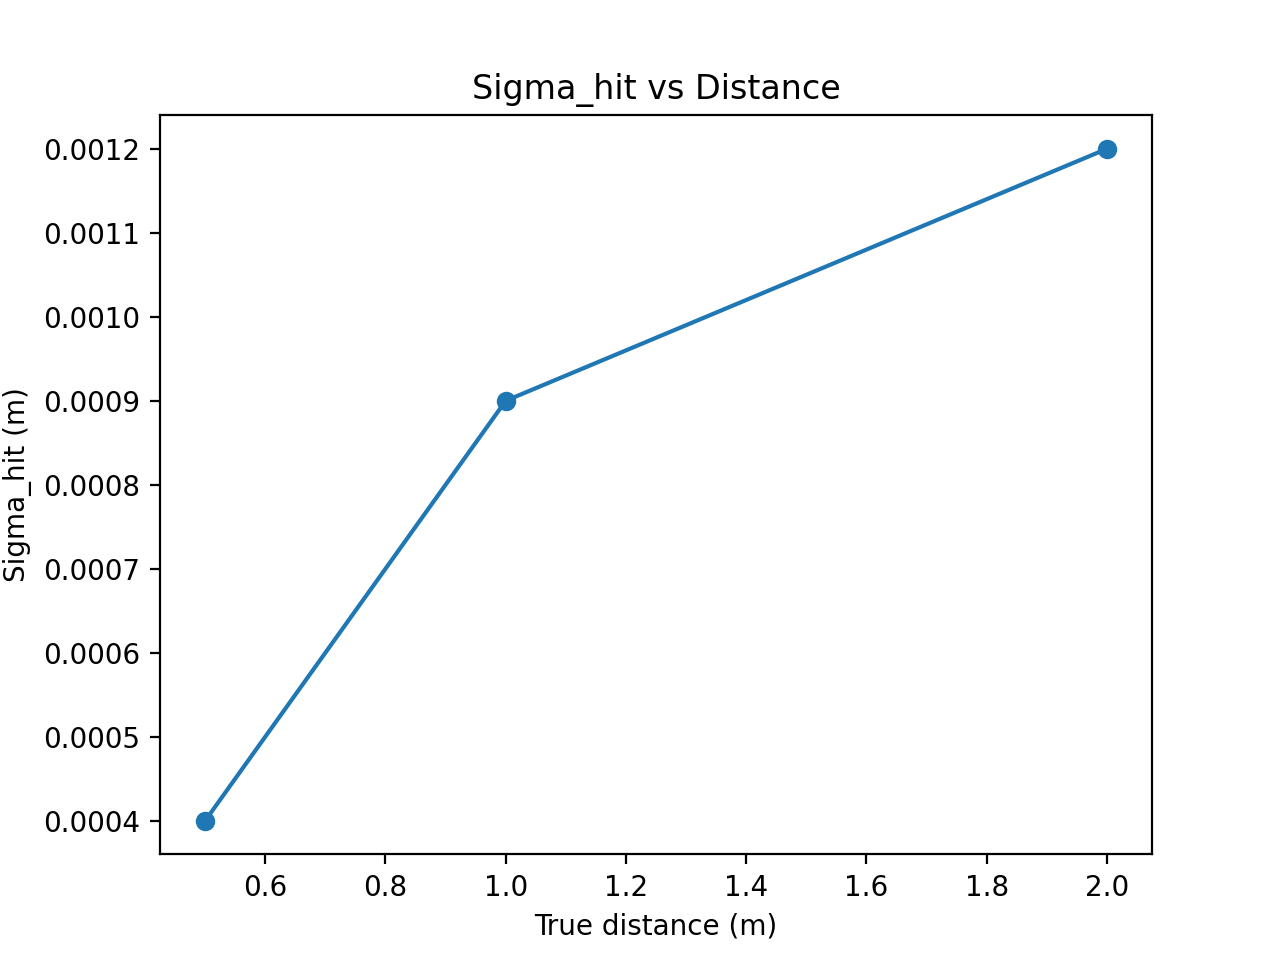
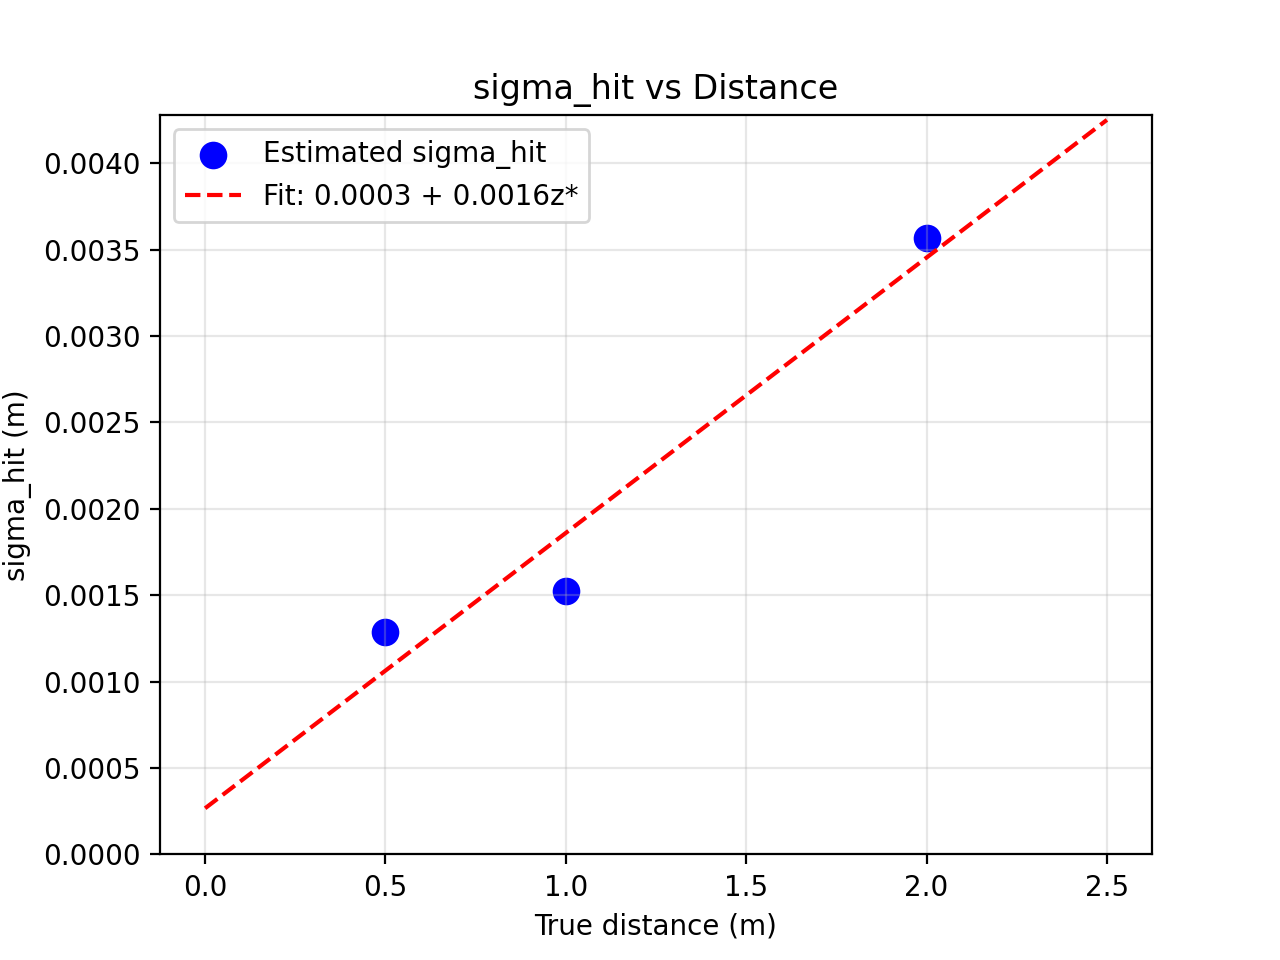
Part 2 implementation complete'' I have something at least. Updated README. Added figures

diff --git a/analysis/analyze_lidar_bag.py b/analysis/analyze_lidar_bag.py
@@ -7,7 +7,6 @@
 # ---------------------------------------------------------------------------
 
 import os
-import yaml
 import rclpy
 import rosbag2_py
 from rosbag2_py import StorageOptions, ConverterOptions
@@ -15,34 +14,31 @@ from rclpy.serialization import deserialize_message
 from rosidl_runtime_py.utilities import get_message
 import numpy as np
 import matplotlib.pyplot as plt
-from scipy import stats
-from scipy.optimize import curve_fit
 
 # ---------------------------------------------------------------------------
 # Configuration - The manual says LDS1 but this is actually the LDS2
 # ---------------------------------------------------------------------------
 
+HERE = os.path.dirname(os.path.abspath(__file__))
+
 rclpy.init()
 
 BAG_FILES = [
-    ("../data/rosbag_0_5m", 0.5),
-    ("../data/rosbag_1m",   1.0),
-    ("../data/rosbag_2m",   2.0),
+    (os.path.join(HERE, "../data/rosbag_0_5m"), 0.5),
+    (os.path.join(HERE, "../data/rosbag_1m"),   1.0),
+    (os.path.join(HERE, "../data/rosbag_2m"),   2.0),
 ]
 
 TARGET_ANGLE = 0.0   # radians — 0 = forward-facing beam
-ANGLE_WINDOW = 0.1   # radians to average over
-RANGE_MAX    = 8000
+ANGLE_WINDOW = 0.2   # radians to average over
 
-os.makedirs("figures", exist_ok=True)
-os.makedirs("../results", exist_ok=True)
+os.makedirs(os.path.join(HERE, "figures"), exist_ok=True)
 
-# results dict carries data between sections: {true_dist: {"data": ..., "mean": ..., ...}}
 results = {}
 
 
 # ---------------------------------------------------------------------------
-# Section 1: Bag Reading
+# Section 1 (2.1): Bag Reading — Extract Relevant Beams
 # ---------------------------------------------------------------------------
 
 for bag_path, true_dist in BAG_FILES:
@@ -59,53 +55,21 @@ for bag_path, true_dist in BAG_FILES:
             continue
         msg = deserialize_message(raw, topic_types[topic])
 
-        # TODO: compute centre index for TARGET_ANGLE
-        # index = int((TARGET_ANGLE - msg.angle_min) / msg.angle_increment)
+        index = int((TARGET_ANGLE - msg.angle_min) / msg.angle_increment)
 
-        # TODO: compute half-window and clamp to valid range
-        # half = int((ANGLE_WINDOW * 0.5) / msg.angle_increment)
-        # i0 = max(index - half, 0)
-        # i1 = min(index + half, len(msg.ranges) - 1)
+        half = int((ANGLE_WINDOW * 0.5) / msg.angle_increment)
+        i0 = max(index - half, 0)
+        i1 = min(index + half, len(msg.ranges) - 1)
 
-        # TODO: extract, filter invalid readings, append to all_ranges
-        # window = np.array(msg.ranges[i0:i1+1], dtype=float)
-        # valid  = np.isfinite(window) & (window >= msg.range_min) & (window <= msg.range_max)
-        # all_ranges.extend(window[valid].tolist())
+        window = np.array(msg.ranges[i0:i1+1], dtype=float)
+        valid  = np.isfinite(window) & (window >= msg.range_min) & (window <= msg.range_max)
+        all_ranges.extend(window[valid].tolist())
 
     results[true_dist] = {"data": np.array(all_ranges)}
     print(f"{len(all_ranges)} measurements")
 
-
 # ---------------------------------------------------------------------------
-# Section 2: Parameter Estimation (2.3)
-# ---------------------------------------------------------------------------
-
-print("\n--- Parameter Estimation ---")
-print(f"{'z*(m)':>6} {'N':>6} {'Mean(m)':>9} {'Bias(m)':>9} {'sigma_hit(m)':>13} {'Outliers':>10} {'Shorts':>8}")
-print("-" * 65)
-
-for true_dist, r in sorted(results.items()):
-    data = r["data"]
-
-    # TODO: compute stats and store back into results[true_dist]
-    # mean         = np.mean(data)
-    # sigma_hit    = np.std(data)
-    # bias         = mean - true_dist
-    # outlier_rate = np.mean(np.abs(data - mean) > 3 * sigma_hit)
-    # short_rate   = np.mean(data < true_dist - 3 * sigma_hit)
-
-    # results[true_dist].update({
-    #     "mean": mean, "sigma_hit": sigma_hit, "bias": bias,
-    #     "outlier_rate": outlier_rate, "short_rate": short_rate,
-    # })
-
-    # print(f"{true_dist:6.2f} {len(data):6d} {mean:9.4f} {bias:9.4f} {sigma_hit:13.4f} "
-    #       f"{outlier_rate:9.2%} {short_rate:7.2%}")
-    pass
-
-
-# ---------------------------------------------------------------------------
-# Section 3: Histogram Analysis (2.2)
+# Section 2 (2.2): Histogram Analysis
 # ---------------------------------------------------------------------------
 
 print("\n--- Histograms ---")
@@ -115,139 +79,86 @@ for true_dist, r in sorted(results.items()):
 
     plt.figure()
 
-    # TODO: histogram
-    # plt.hist(data, bins=60, density=True, alpha=0.6, label="measurements")
+    from scipy import stats as scipy_stats
+    plt.hist(data, bins=60, density=True, alpha=0.6, label="measurements")
 
-    # TODO: Gaussian fit overlay
-    # mu, sigma = stats.norm.fit(data)
-    # x = np.linspace(data.min(), data.max(), 500)
-    # plt.plot(x, stats.norm.pdf(x, mu, sigma), label=f"Gaussian  σ={sigma:.4f}")
+    mu, sigma = scipy_stats.norm.fit(data)
+    x = np.linspace(data.min(), data.max(), 500)
+    plt.plot(x, scipy_stats.norm.pdf(x, mu, sigma), label=f"Gaussian  Sigma={sigma:.4f}")
 
-    # TODO: vertical line at true distance
-    # plt.axvline(true_dist, color="red", linestyle="--", label=f"z*={true_dist} m")
+    plt.axvline(true_dist, color="red", linestyle="--", label=f"z*={true_dist} m")
 
     plt.title(f"z* = {true_dist} m  (N={len(data)})")
     plt.xlabel("Range (m)")
     plt.ylabel("Density")
     plt.legend()
-    fname = f"figures/hist_{str(true_dist).replace('.', 'p')}m.png"
+    fname = os.path.join(HERE, f"figures/hist_{str(true_dist).replace('.', '_')}m.png")
     plt.savefig(fname, dpi=200)
     plt.close()
     print(f"  Saved {fname}")
 
 
 # ---------------------------------------------------------------------------
-# Section 4: sigma_hit vs Distance (2.4)
+# Section 3 (2.3): Parameter Estimation — sigma_hit and Bias
 # ---------------------------------------------------------------------------
 
-print("\n--- sigma_hit vs Distance ---")
-
-distances  = np.array(sorted(results.keys()))
-sigma_hits = np.array([results[d]["sigma_hit"] for d in distances])
-biases     = np.array([results[d]["bias"]      for d in distances])
-
-# TODO: fit linear model  sigma_hit(z*) = sigma0 + sigma1 * z*
-# popt, _ = curve_fit(lambda z, s0, s1: s0 + s1 * z, distances, sigma_hits)
-# sigma0, sigma1 = popt
-# print(f"  sigma_hit(z*) = {sigma0:.5f} + {sigma1:.5f} * z*")
-
-fig, (ax1, ax2) = plt.subplots(1, 2, figsize=(11, 4))
-
-# TODO: scatter sigma_hits vs distances + linear fit on ax1
-# TODO: scatter biases vs distances + axhline(0) on ax2
-
-ax1.set_xlabel("True distance z* (m)")
-ax1.set_ylabel("sigma_hit (m)")
-ax1.set_title("sigma_hit vs Distance")
-ax1.grid(True, alpha=0.3)
-ax2.set_xlabel("True distance z* (m)")
-ax2.set_ylabel("Bias = mean - z* (m)")
-ax2.set_title("Systematic Bias vs Distance")
-ax2.grid(True, alpha=0.3)
-
-plt.tight_layout()
-plt.savefig("figures/sigma_vs_distance.png", dpi=200)
-plt.close()
-print("  Saved figures/sigma_vs_distance.png")
-
-
-# ---------------------------------------------------------------------------
-# Section 5: Beam Model Component Analysis
-# ---------------------------------------------------------------------------
-
-print("\n--- Beam Model Weights ---")
-print(f"{'z*(m)':>6}  {'z_hit':>8}  {'z_short':>8}  {'z_max':>8}  {'z_rand':>8}")
+print("\n--- Parameter Estimation ---")
+print(f"{'z*(m)':>6} {'N':>6} {'Mean(m)':>9} {'Bias(m)':>9} {'sigma_hit(m)':>13}")
 print("-" * 48)
 
 for true_dist, r in sorted(results.items()):
-    data      = r["data"]
-    sigma_hit = r["sigma_hit"]
+    data = r["data"]
 
-    # TODO: compute weights
-    # z_hit   = np.mean(np.abs(data - true_dist) <= 3 * sigma_hit)
-    # z_short = np.mean(data < true_dist - 3 * sigma_hit)
-    # z_max   = np.mean(data >= RANGE_MAX)
-    # z_rand  = max(0.0, 1.0 - z_hit - z_short - z_max)
+    mean      = np.mean(data)
+    sigma_hit = np.std(data)
+    bias      = mean - true_dist
 
-    # print(f"{true_dist:6.2f}  {z_hit:8.4f}  {z_short:8.4f}  {z_max:8.4f}  {z_rand:8.4f}")
-    pass
+    results[true_dist].update({"mean": mean, "sigma_hit": sigma_hit, "bias": bias})
+
+    print(f"{true_dist:6.2f} {len(data):6d} {mean:9.4f} {bias:9.4f} {sigma_hit:13.4f}")
+
 
 
 # ---------------------------------------------------------------------------
-# Section 6: Normality Tests (Q-Q plots + Shapiro-Wilk)
+# Section 4 (2.4): Model Validation — sigma_hit vs Distance
 # ---------------------------------------------------------------------------
 
-print("\n--- Normality Tests ---")
-print(f"{'z*(m)':>6}  {'Shapiro W':>10}  {'p-value':>10}  {'Normal?':>10}")
-print("-" * 44)
+print("\n--- Model Validation ---")
 
-fig, axes = plt.subplots(1, len(results), figsize=(5 * len(results), 4))
+distances = np.array(sorted(results.keys()))
 
-for ax, (true_dist, r) in zip(axes, sorted(results.items())):
+sigma_hits = np.array([results[d]["sigma_hit"] for d in distances])
+biases     = np.array([results[d]["bias"]      for d in distances])
+
+# fit line
+popt = np.polyfit(distances, sigma_hits, 1)
+sigma_1, sigma_0 = popt
+print(f"  sigma_hit(z*) = {sigma_0:.5f} + {sigma_1:.5f} * z*")
+
+# check for short or infinite
+for true_dist, r in sorted(results.items()):
     data      = r["data"]
-    sigma_hit = r["sigma_hit"]
 
-    # TODO: isolate p_hit region
-    # hit_data = data[np.abs(data - true_dist) <= 3 * sigma_hit]
+# are there any shorts? short defined as less than 3 std away from mean
+    short_rate = np.mean(data < (true_dist - 3 * r["sigma_hit"]))
+    results[true_dist]["short_rate"] = short_rate
+    print(f"  z*={true_dist:3.1f}m  short_rate={short_rate:.2%}")
 
-    # TODO: Shapiro-Wilk (subsample to 5000 max)
-    # sample = hit_data if len(hit_data) <= 5000 else np.random.choice(hit_data, 5000, replace=False)
-    # W, p = stats.shapiro(sample)
-    # print(f"{true_dist:6.2f}  {W:10.6f}  {p:10.6f}  {'Yes' if p > 0.05 else 'No':>10}")
+plt.figure()
+plt.scatter(distances, sigma_hits, color="blue", s=80, label="Estimated sigma_hit")
 
-    # TODO: Q-Q plot
-    # stats.probplot(hit_data, dist="norm", plot=ax)
+z_range = np.linspace(0, 2.5, 100)
+plt.plot(z_range, sigma_0 + sigma_1 * z_range, "r--", 
+         label=f"Fit: {sigma_0:.4f} + {sigma_1:.4f}z*")
 
-    ax.set_title(f"Q-Q  z*={true_dist} m")
-
-plt.tight_layout()
-plt.savefig("figures/qq_plots.png", dpi=200)
+plt.xlabel("True distance (m)")
+plt.ylabel("sigma_hit (m)")
+plt.title("sigma_hit vs Distance")
+plt.legend()
+plt.grid(True, alpha=0.3)
+plt.ylim(0, max(sigma_hits) * 1.2)
+plt.savefig(os.path.join(HERE, "figures/sigma_vs_distance.png"), dpi=200)
 plt.close()
-print("  Saved figures/qq_plots.png")
-
-
-# ---------------------------------------------------------------------------
-# Section 7: Save Results to YAML
-# ---------------------------------------------------------------------------
-
-print("\n--- Saving Results ---")
-
-summary = {
-    "uncertainty_model": {
-        # TODO: replace None with sigma0 and sigma1 from section 4
-        "sigma0": None,
-        "sigma1": None,
-        "description": "sigma_hit(z*) = sigma0 + sigma1 * z*",
-    },
-    "per_distance": {
-        # TODO: populate from results dict
-        # str(true_dist): {"mean": r["mean"], "sigma_hit": r["sigma_hit"], ...}
-    },
-}
-
-with open("../results/calibration_results.yaml", "w") as f:
-    yaml.dump(summary, f, default_flow_style=False, sort_keys=False)
-
-print("  Saved ../results/calibration_results.yaml")
+print("  Saved figures/sigma_vs_distance.png")
 
 rclpy.shutdown()

diff --git a/README.md b/README.md
@@ -1,6 +1,7 @@
 # Project 5: Laser Range Finder Intrinsic Parameter Estimation
 
-**Anders Smitterberg · Progress Munoriarwa** — EE5531 Intro to Robotics
+**Anders Smitterberg · Progress Munoriarwa**  
+EE5531 Intro to Robotics
 
 ---
 
@@ -44,30 +45,24 @@
 
 ## 2. Histogram Analysis
 
-Progress I plotted your fifgures here
 
 ### 0.5 m
 
-![Histogram 0.5 m](analysis/figures/hist_0p5m.png)
+![Histogram 0.5 m](analysis/figures/hist_0_5m.png)
 
-<!-- TODO: Describe the distribution shape at 0.5 m.
-     - Is it roughly Gaussian? Symmetric?
-     - Are there visible tails or outlier clusters?
-     - Does the mean align with the true distance line? -->
+The distribution's mode is approximately at 501mm. the distribution I would not call gaussian. there are visible tails and clusters, but the total range of the measurements is still quite small at about 5mm. Interestingly there are very few short measurements. 
 
 ### 1.0 m
 
-![Histogram 1.0 m](analysis/figures/hist_1m.png)
+![Histogram 1.0 m](analysis/figures/hist_1_0m.png)
 
-<!-- TODO: Same description for 1.0 m. Note any changes vs 0.5 m. -->
+The measured distribution reads long, the mean is at 1007 mm, which is substantially longer than anticipated, this is likley measurement error. The distribution has much less variance than the 0.5m distribution, but also has more clearly defined tails.
 
 ### 2.0 m
 
-![Histogram 2.0 m](analysis/figures/hist_2p0m.png)
+![Histogram 2.0 m](analysis/figures/hist_2_0m.png)
 
-<!-- TODO: Same description for 2.0 m.
-     - Does the spread visibly increase with distance?
-     - More or fewer outliers? -->
+It appears as though the standard deviation increases greatly in this distribution. the mean is slighyly higher than the nominal measurement value, and the distribution appears much more gaussian. 
 
 ### Distribution Shape Discussion
 
@@ -78,6 +73,8 @@ Progress I plotted your fifgures here
      - Whether the full four-component beam model is warranted by this data,
        or whether a simple Gaussian is sufficient -->
 
+Across all the measurements it appears although the p_hit dominates. There do not appear to be any short measurements, other than potentially a tail on the 1.0m distribution. Additionally there didn't appear to be any "long" measurements on the sensor. if there were they were already likley clipped by the firmware. If I had to characteize these distribution I would have preferred longer rosbags, and I suspect they would have converged to a gaussian appearing distribution. I believe that p_hit appears to dominate, and for simplicity's sake I believe is sufficient to characterize this sensor's performance.
+
 ---
 
 ## 3. Parameter Estimation and Results
@@ -86,17 +83,9 @@ Progress I plotted your fifgures here
 
 | z\* (m) | N | Mean (m) | Bias (m) | σ_hit (m) | Outlier rate | Short rate |
 |:---:|:---:|:---:|:---:|:---:|:---:|:---:|
-| 0.5 | <!-- TODO --> | <!-- TODO --> | <!-- TODO --> | <!-- TODO --> | <!-- TODO --> | <!-- TODO --> |
-| 1.0 | <!-- TODO --> | <!-- TODO --> | <!-- TODO --> | <!-- TODO --> | <!-- TODO --> | <!-- TODO --> |
-| 2.0 | <!-- TODO --> | <!-- TODO --> | <!-- TODO --> | <!-- TODO --> | <!-- TODO --> | <!-- TODO --> |
-
-### Beam Model Mixing Weights
-
-| z\* (m) | z_hit | z_short | z_max | z_rand |
-|:---:|:---:|:---:|:---:|:---:|
-| 0.5 | <!-- TODO --> | <!-- TODO --> | <!-- TODO --> | <!-- TODO --> |
-| 1.0 | <!-- TODO --> | <!-- TODO --> | <!-- TODO --> | <!-- TODO --> |
-| 2.0 | <!-- TODO --> | <!-- TODO --> | <!-- TODO --> | <!-- TODO --> |
+| 0.5 | 392 | 0.5015 | 0.0015 | 0.0013 | 0.00 | 0.00 |
+| 1.0 | 416 | 1.0068 | 0.0068| 0.0015 | 0.00 | 0.00 |
+| 2.0 | 481 | 2.0034 | 0.0034 | 0.0036 | 0.00 | 0.00 |
 
 ### σ_hit vs Distance
 
